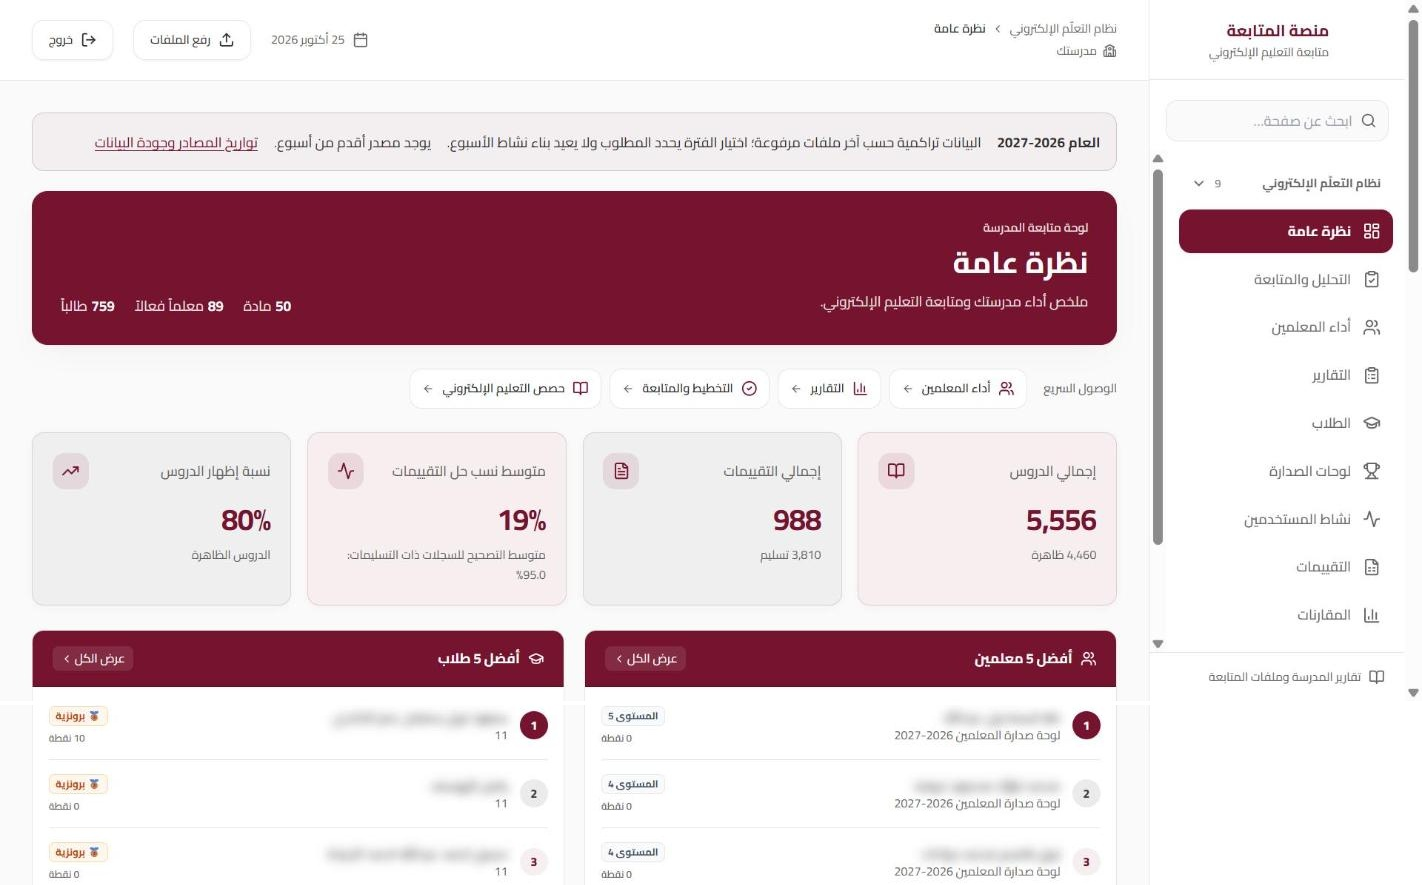
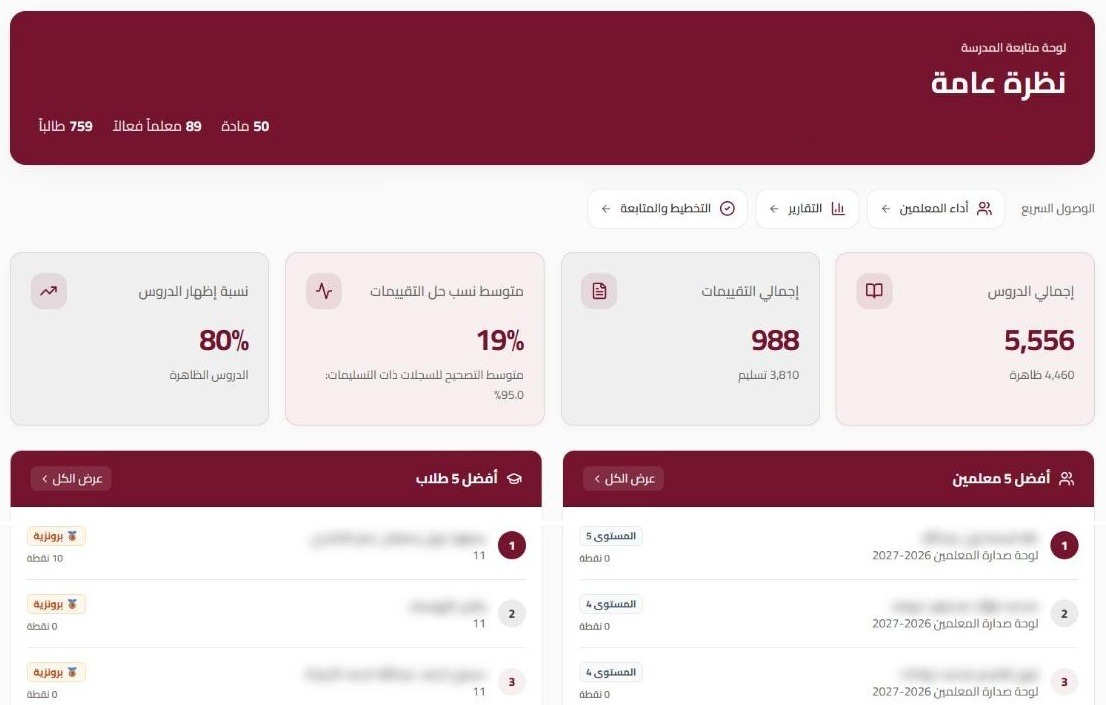
Portfolio: hide school names and e-learning wording from school projects

diff --git a/shared/projects.ts b/shared/projects.ts
@@ -381,16 +381,15 @@ export const PROJECT_CATALOG: AgencyProject[] = [
   },
   {
     _id: "s26",
-    titleAr: "Q-Edu — لوحة متابعة التعليم",
+    titleAr: "لوحة متابعة المدرسة",
     descriptionAr:
-      "لوحة متابعة للتعليم الإلكتروني في المدرسة: الدروس والتقييمات وأداء المعلمين والطلاب ومقارنات المواد.",
+      "لوحة متابعة للمدرسة: الدروس والتقييمات وأداء المعلمين والطلاب ومقارنات المواد.",
     category: "نظم",
     result: "متابعة بالأرقام",
     imageUrl: "/previews/qedu.jpg",
     videoUrl: null,
     color: "",
     accent: "#7A1630",
-    liveUrl: "https://reports.ibntaymia.com/",
   },
 ].map((p, index) => ({
   ...p,

diff --git a/convex/seed.ts b/convex/seed.ts
@@ -1,3 +1,4 @@
+import { v } from "convex/values";
 import { internalMutation } from "./_generated/server";
 import { PROJECT_CATALOG, catalogMatch } from "../shared/projects";
 
@@ -53,5 +54,19 @@ export const seedProjects = internalMutation({
       }
     }
     return { added, enriched };
+  },
+});
+
+// One-off text fixes from the CLI, e.g. hiding a client's name:
+// npx convex run seed:patchProject '{"id":"...","titleAr":"..."}'
+export const patchProject = internalMutation({
+  args: {
+    id: v.id("agencyProjects"),
+    titleAr: v.optional(v.string()),
+    descriptionAr: v.optional(v.string()),
+    clearLiveUrl: v.optional(v.boolean()),
+  },
+  handler: async (ctx, { id, clearLiveUrl, ...patch }) => {
+    await ctx.db.patch(id, clearLiveUrl ? { ...patch, liveUrl: undefined } : patch);
   },
 });
